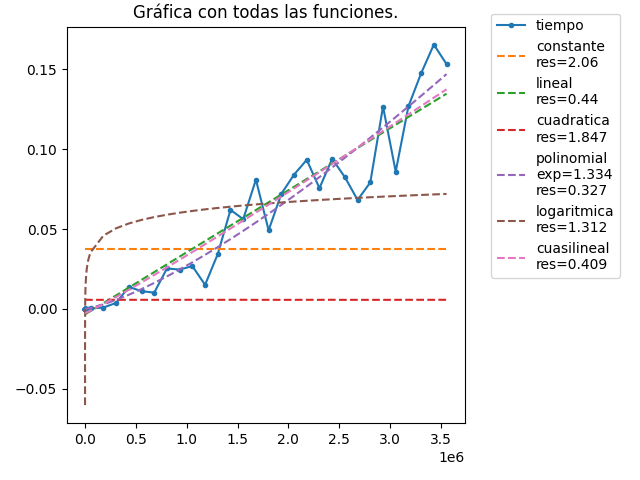
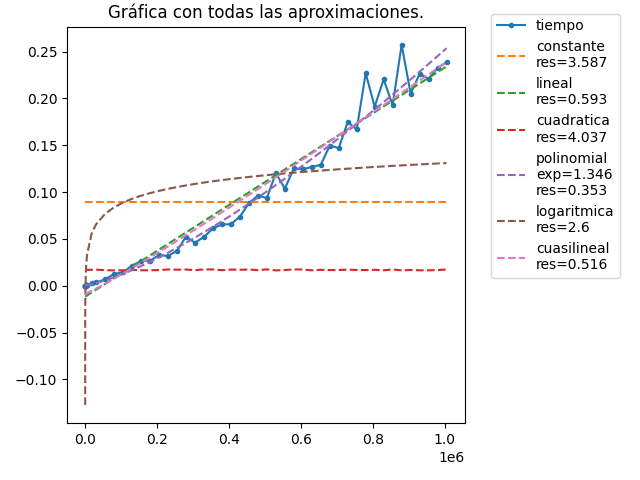
Contador de operaciones elementales añadido

diff --git a/juez/evaluador.py b/juez/evaluador.py
@@ -23,7 +23,11 @@ factor_aum = 10  # factor por el que se multiplica el aumento_tam si vemos que s
 t_min_entre_ejec = 1e-3  # tiempo mínimo que debe haber entre ejecuciones para no considerarse constante
 max_veces_cte = 4  # si se alcanza t_min_entre_ejec max_veces_cte, se calculan los puntos intermedios
 pruebas_por_tam = 10  # pruebas que debe hacer por cada tamaño (con entradas diferentes)
-residuo_max = 10  # si la aproximación tiene un residuo mayor, no aparece en la gráfica
+residuo_max_t = 10  # si la aproximación tiene un residuo mayor, no aparece en la gráfica
+
+ops_max = 5e6
+ops_min_entre_ejec = 1000
+residuo_max_oe = 5e7
 
 
 # Inspeccionar el contenido de la carpeta "problemas" y devolver una lista con los nombres de las subcarpetas
@@ -84,6 +88,8 @@ def entrada_aleatoria(tipo, n):
                 resultado.append(random.randint(0, n * 2))
         if tipo.endswith('sorted'):
             resultado.sort()
+        elif tipo.endswith('reversed'):
+            resultado.reverse()
         return resultado
     elif tipo.startswith('tuple'):
         resultado = []
@@ -97,8 +103,42 @@ def entrada_aleatoria(tipo, n):
     return ''
 
 
-# Evalúa la función con entradas cada vez más grandes
-def tiempo_complejidad(dic_problema, fichero, tams_entrada):
+def contador_lineas(funcion):
+    tab = '    '
+    cont = 'contador_de_lineas_para_calcular_oe_complejidad'
+    lista = funcion.split('\n')
+    lista.insert(1, tab + 'global ' + cont)
+    i = 2
+    while i < len(lista):
+        linea = lista[i]
+        num_esp = 0
+        for c in linea:
+            if c == ' ':
+                num_esp += 1
+            else:
+                break
+        num_tabs = num_esp // 4
+        linea = linea.lstrip()
+        # No contamos la línea si está vacía ni si es un else ni si es un comentario
+        # ¡¡De momento tampoco contamos los elif!!
+        if linea == '' or linea.startswith('else:') or linea.startswith('elif ') or linea.startswith('#'):
+            i += 1
+        # Si es un while o for contamos una vez antes (para la vez que ya no entre, pero compruebe la condición)
+        # y una vez después para que lo cuente cada vez que entra
+        elif linea.startswith('while ') or linea.startswith('for '):
+            lista.insert(i + 1, tab * (num_tabs + 1) + cont + ' += 1')
+            lista.insert(i, tab * num_tabs + cont + ' += 1')
+            i += 3
+        else:
+            lista.insert(i, tab * num_tabs + cont + ' += 1')
+            i += 2
+    print('\n'.join(lista))
+    return '\n'.join(lista)
+
+
+# Evalúa la función con entradas cada vez más grandes y guarda los tiempos y ¿líneas?
+def evalua_complejidad_t(dic_problema, fichero, tams_entrada):
+    global aumento_tam
     # leo la función
     with open(fichero, 'r') as fichero:
         exec(fichero.read())
@@ -140,13 +180,17 @@ def tiempo_complejidad(dic_problema, fichero, tams_entrada):
             tiempoini = time.perf_counter()
             funcion(*entrada)
             tiempo_pruebas.append(time.perf_counter() - tiempoini)
-            # si el tiempo de una ya supera el máximo, salgo del bucle
+            # si el tiempo de una ya supera el máximo, salgo del bucle y descartamos el tamaño
             if tiempo_pruebas[-1] > tiempo_max:
                 tams.pop()
+                # si antes solo ha hecho una prueba, que vuelva a empezar pero aumentando la cuarta parte
+                if len(tams) == 1:
+                    aumento_tam = aumento_tam // 4
+                    return evalua_complejidad_t(dic_problema, fichero, tams_entrada)
                 break
         # guardo el tiempo medio si ha hecho todas las ejecuciones
         if len(tiempo_pruebas) == pruebas_por_tam:
-            tiempos.append(sum(tiempo_pruebas) / len(tiempo_pruebas))
+            tiempos.append(sum(tiempo_pruebas) / pruebas_por_tam)
         else:
             break
 
@@ -179,7 +223,7 @@ def tiempo_complejidad(dic_problema, fichero, tams_entrada):
                     tams.pop(j)
                     break
             if len(tiempo_pruebas) == pruebas_por_tam:
-                tiempos.insert(j, sum(tiempo_pruebas) / len(tiempo_pruebas))
+                tiempos.insert(j, sum(tiempo_pruebas) / pruebas_por_tam)
             else:
                 break
 
@@ -192,6 +236,110 @@ def tiempo_complejidad(dic_problema, fichero, tams_entrada):
             #     break
 
     return tams, tiempos
+
+
+contador_de_lineas_para_calcular_oe_complejidad = 0
+
+
+def evalua_complejidad_oe(dic_problema, fichero, tams_entrada):
+    global contador_de_lineas_para_calcular_oe_complejidad, aumento_tam
+    # leo la función con el contador de oe añadido
+    with open(fichero, 'r') as fich:
+        exec(contador_lineas(fich.read()))
+    funcion = eval(dic_problema['funcion'])
+    aumentar = int(dic_problema['aumentar'])
+    tipo_entrada = dic_problema['tipo_param']
+
+    # inicializo tamaños y operaciones elementales
+    tams = [1]
+    if aumentar != 0:
+        tams_entrada[aumentar - 1] = tams[-1]
+    ops = []
+    aum = 1
+    veces_cte = 0  # se cuenta las que son seguidas
+    tiempo_inicial = time.perf_counter()
+
+    # evalúo la función con tamaños cada vez mayores y guardo las operaciones elementales
+    while ops == [] or (ops[-1] < ops_max and veces_cte < max_veces_cte):
+        # aumento tamaño del parámetro que toca
+        if len(ops) >= 2 and abs(ops[-1] - ops[-2]) < ops_min_entre_ejec:
+            aum *= factor_aum
+            print('aumento', aum)
+            veces_cte += 1
+        else:
+            veces_cte = 0
+
+        if aumentar != 0 and ops != []:
+            tams_entrada[aumentar - 1] = tams[-1] + aumento_tam * aum
+            tams.append(tams_entrada[aumentar - 1])
+
+        # evalúo pruebas_por_tam veces con ese tamaño
+        ops_pruebas = []
+        for _ in range(pruebas_por_tam):
+            # creo otra prueba aleatoria
+            entrada = []
+            for i in range(len(tipo_entrada)):
+                entrada.append(entrada_aleatoria(tipo_entrada[i], tams_entrada[i]))
+            # evalúo y cuento las oe
+            contador_de_lineas_para_calcular_oe_complejidad = 0
+            funcion(*entrada)
+            ops_pruebas.append(contador_de_lineas_para_calcular_oe_complejidad)
+            # si las oe de una ya supera el máximo, salgo del bucle y descartamos el tamaño
+            if ops_pruebas[-1] > ops_max:
+                tams.pop()
+                # si antes solo ha hecho una prueba, que vuelva a empezar pero aumentando la cuarta parte
+                if len(tams) == 1:
+                    aumento_tam = aumento_tam // 4
+                    return evalua_complejidad_oe(dic_problema, fichero, tams_entrada)
+                break
+        # guardo las oe medias si ha hecho todas las ejecuciones
+        if len(ops_pruebas) == pruebas_por_tam:
+            ops.append(sum(ops_pruebas) / pruebas_por_tam)
+        else:
+            break
+
+        if time.perf_counter() - tiempo_inicial >= tiempo_total_max:
+            if len(tams) >= ejec_min:
+                return tams, ops
+            break
+
+        print('sigo', tams[-1], ops[-1])
+
+    while len(ops) < ejec_min:
+
+        print('añadiendo puntos intermedios...')
+
+        for j in range(1, len(tams) * 2 - 1, 2):
+            tams.insert(j, (tams[j - 1] + tams[j]) // 2)
+
+            if aumentar != 0:
+                tams_entrada[aumentar - 1] = tams[j]
+
+            ops_pruebas = []
+            for _ in range(pruebas_por_tam):
+                entrada = []
+                for i in range(len(tipo_entrada)):
+                    entrada.append(entrada_aleatoria(tipo_entrada[i], tams_entrada[i]))
+                contador_de_lineas_para_calcular_oe_complejidad = 0
+                funcion(*entrada)
+                ops_pruebas.append(contador_de_lineas_para_calcular_oe_complejidad)
+                if ops_pruebas[-1] > ops_max:
+                    tams.pop(j)
+                    break
+            if len(ops_pruebas) == pruebas_por_tam:
+                ops.insert(j, sum(ops_pruebas) / pruebas_por_tam)
+            else:
+                break
+
+            print('sigo', tams[j], ops[j])
+
+            if len(ops) >= ejec_min:
+                break
+            # si sobrepasa tiempo_total_max + tiempo_extra, calcula con tamaños más pequeños
+            # if time.perf_counter() - tiempo_inicial >= tiempo_total_max + tiempo_extra:
+            #     break
+
+    return tams, ops
 
 
 # Familias de funciones para el orden de complejidad
@@ -234,8 +382,9 @@ funciones = (constante, lineal, cuadratica, polinomial, logaritmica, cuasilineal
 
 
 # Comprueba qué función de las familias de funciones es más próxima a los datos tamaño-tiempo que tenemos
-def funcion_complejidad(x, y, funcs=funciones):
+def funciones_complejidad(x, y, funcs=funciones):
     x, y = np.array(x), np.array(y)
+    funcs = list(funcs)
     valores_opt = []
     residuos = []
     fx = []
@@ -246,23 +395,28 @@ def funcion_complejidad(x, y, funcs=funciones):
             fx.append(f(x, *popt))
             residuos.append(sum(abs(y - fx[-1])))
         except RuntimeError:
-            list_funcs = list(funcs)
-            list_funcs.remove(f)
-            funcs = tuple(list_funcs)
+            funcs.remove(f)
     print('funciones: ', funcs)
     print('residuos: ', residuos)
     return funcs, valores_opt, residuos, fx
 
 
 # Pinta la gráfica de tamaño-tiempo junto con la función aproximada y junto con todas las aproximaciones calculadas
-def pinta_graficas(x, y):
-    funcs, val_opt, residuos, fx = funcion_complejidad(x, y)
+def pinta_graficas(x, y, complejidad):
+    funcs, val_opt, residuos, fx = funciones_complejidad(x, y)
     res_min = np.min(np.array(residuos))
     pos_min = residuos.index(res_min)
     f_min = funcs[pos_min]
     val_min = val_opt[pos_min]
+    # si es una polinomial pero con exponente casi 0, 1 o 2, quitamos polinomial
+    if f_min == polinomial and round(val_min[-1], 1) in [0, 1, 2]:
+        [_.pop(pos_min) for _ in [funcs, val_opt, residuos, fx]]
+        res_min = np.min(np.array(residuos))
+        pos_min = residuos.index(res_min)
+        f_min = funcs[pos_min]
+        val_min = val_opt[pos_min]
 
-    plt.plot(x, y, '.-', label='tiempo')
+    plt.plot(x, y, '.-', label=complejidad)
 
     x_symbol = sympy.Symbol('x')
     f_str = f_min(x_symbol, *val_min)
@@ -276,9 +430,10 @@ def pinta_graficas(x, y):
     plt.savefig('grafica_mejor.png')
     plt.show()
 
-    plt.plot(x, y, '.-', label='tiempo')
+    plt.plot(x, y, '.-', label=complejidad)
     for i in range(len(funcs)):
-        if residuos[i] <= residuo_max:
+        if (complejidad == 'tiempo' and residuos[i] <= residuo_max_t) or \
+                (complejidad == 'operaciones' and residuos[i] <= residuo_max_oe):
             # f_str = funcs[i](x_symbol, *val_opt[i])
             nombre = funcs[i].__name__
             if nombre == 'polinomial':
@@ -289,8 +444,6 @@ def pinta_graficas(x, y):
     plt.tight_layout()
     plt.title('Gráfica con todas las aproximaciones.')
     plt.savefig('grafica_todas.png')
-    plt.show()
-
     plt.show()
 
 
@@ -304,16 +457,19 @@ def pinta_graficas(x, y):
 #
 # Los ficheros xxxxxxx.entrada.txt contienen un parámetro de entrada en cada línea
 # Los ficheros xxxxxxx.salida.txt contienen la salida esperada en la primera línea
-def evalua_problema(id, fichero):
+def evalua_problema(id, fichero, complejidad=''):
     dic_problema = lee_problema(id)
     with open(fichero, 'r') as fich:
         exec(fich.read())
     funcion = eval(dic_problema['funcion'])
+
+    # Comprueba el resultado de todas las pruebas
     pruebas, resultados = [], []
     with scandir(os.path.join(carpeta_problemas, id)) as carpeta:
         for file in carpeta:
             if file.is_file() and file.name.endswith(sufijo_entrada):
                 pruebas.append((file.path, file.path[:-len(sufijo_entrada)] + sufijo_salida))
+    todo_correcto = True
     for prueba in pruebas:
         with open(prueba[0], 'r') as e:
             entrada = e.read().split('\n')
@@ -328,22 +484,29 @@ def evalua_problema(id, fichero):
             salidaesperada = eval(s.read())
         if salidareal == salidaesperada:
             resultados.append('OK' + ', ' + str(tiempototal))
-            # calculo los tamaños de entrada - ¿solo lo necesito si algún valor se queda fijo?
-            tams_entrada = []
-            for i in range(len(entrada)):
-                tipo = dic_problema['tipo_param'][i]
-                if tipo in ['str', 'int']:
-                    tams_entrada.append(len(str(entrada[i])))
-                elif tipo == 'float':
-                    parte_entera, parte_decimal = entrada[i].split('.')
-                    tams_entrada.append([len(parte_entera), len(parte_decimal)])
-                elif tipo.startswith('list') or tipo.startswith('tuple'):
-                    tams_entrada.append(len(entrada[i]))
-            # calculo el tiempo para entradas cada vez mayores - ¿y si aumentar == 0?
-            tams, tiempos = tiempo_complejidad(dic_problema, fichero, tams_entrada)
-            pinta_graficas(tams, tiempos)
         else:
+            todo_correcto = False
             resultados.append('(' + ', '.join(entrada) + ')' + ', ' + str(salidaesperada) + ', ' + str(salidareal))
+
+    if todo_correcto and len(pruebas) > 0 and complejidad != '':
+        # Calculamos los tamaños de entrada - ¿solo lo necesito si algún valor se queda fijo?
+        tams_entrada = []
+        for i in range(len(entrada)):
+            tipo = dic_problema['tipo_param'][i]
+            if tipo in ['str', 'int']:
+                tams_entrada.append(len(str(entrada[i])))
+            elif tipo == 'float':
+                parte_entera, parte_decimal = entrada[i].split('.')
+                tams_entrada.append([len(parte_entera), len(parte_decimal)])
+            elif tipo.startswith('list') or tipo.startswith('tuple'):
+                tams_entrada.append(len(entrada[i]))
+        # calculo la complejidad para entradas cada vez mayores - ¿y si aumentar == 0?
+        if complejidad == 'T':
+            tams, tiempos = evalua_complejidad_t(dic_problema, fichero, tams_entrada)
+            pinta_graficas(tams, tiempos, 'tiempo')
+        elif complejidad == 'OE':
+            tams, ops = evalua_complejidad_oe(dic_problema, fichero, tams_entrada)
+            pinta_graficas(tams, ops, 'operaciones')
     return resultados
 
 
@@ -355,21 +518,21 @@ def evalua_problema(id, fichero):
 base = 'otros'
 
 # EJEMPLOS PALÍNDROMO
-# evalua_problema('palindromo', os.path.join(base, 'solucion-palindromo-efi.py'))
-# evalua_problema('palindromo', os.path.join(base, 'solucion-palindromo-inefi.py'))
+# evalua_problema('palindromo', os.path.join(base, 'solucion-palindromo-efi.py'), 'T')
+# evalua_problema('palindromo', os.path.join(base, 'solucion-palindromo-inefi.py'), 'OE')
 
 # EJEMPLOS ORDENAR
-# evalua_problema('ordenar', os.path.join(base, 'solucion-ordenar-burbuja.py'))
-# evalua_problema('ordenar', os.path.join(base, 'solucion-ordenar-insercion.py'))
-# evalua_problema('ordenar', os.path.join(base, 'solucion-ordenar-seleccion.py'))
-# evalua_problema('ordenar', os.path.join(base, 'solucion-ordenar-sort.py'))
+# evalua_problema('ordenar', os.path.join(base, 'solucion-ordenar-burbuja.py'), 'T')
+# evalua_problema('ordenar', os.path.join(base, 'solucion-ordenar-insercion.py'), 'T')
+# evalua_problema('ordenar', os.path.join(base, 'solucion-ordenar-seleccion.py'), 'OE')
+# evalua_problema('ordenar', os.path.join(base, 'solucion-ordenar-sort.py'), 'OE')
 
 # EJEMPLOS BUSCAR
-# evalua_problema('buscar', os.path.join(base, 'solucion-buscar-binaria.py'))
-# evalua_problema('buscar', os.path.join(base, 'solucion-buscar-unoauno.py'))
-# evalua_problema('buscar', os.path.join(base, 'solucion-buscar-unoauno-inefi.py'))
-# evalua_problema('buscar', os.path.join(base, 'solucion-buscar-in.py'))
+# evalua_problema('buscar', os.path.join(base, 'solucion-buscar-binaria.py'), 'OE')
+# evalua_problema('buscar', os.path.join(base, 'solucion-buscar-unoauno.py'), 'OE')
+# evalua_problema('buscar', os.path.join(base, 'solucion-buscar-unoauno-inefi.py'), 'OE')
+# evalua_problema('buscar', os.path.join(base, 'solucion-buscar-in.py'), 'T')
 
 # EJEMPLOS EXPONENCIAL # aumento muy pequeño
-# evalua_problema('potencias2', os.path.join(base, 'solucion-potencias2-efi.py'))
-# evalua_problema('potencias2', os.path.join(base, 'solucion-potencias2-inefi.py'))
+# evalua_problema('potencias2', os.path.join(base, 'solucion-potencias2-efi.py'), 'T')
+# evalua_problema('potencias2', os.path.join(base, 'solucion-potencias2-inefi.py'), 'T')

diff --git a/otros/solucion-potencias2-inefi.py b/otros/solucion-potencias2-inefi.py
@@ -1,2 +1,4 @@
 def potencias2(n):
-    return 2**(n-1) + 2**(n-1)
+    if n == 1:
+        return 2
+    return potencias2(n-1) + potencias2(n-1)
